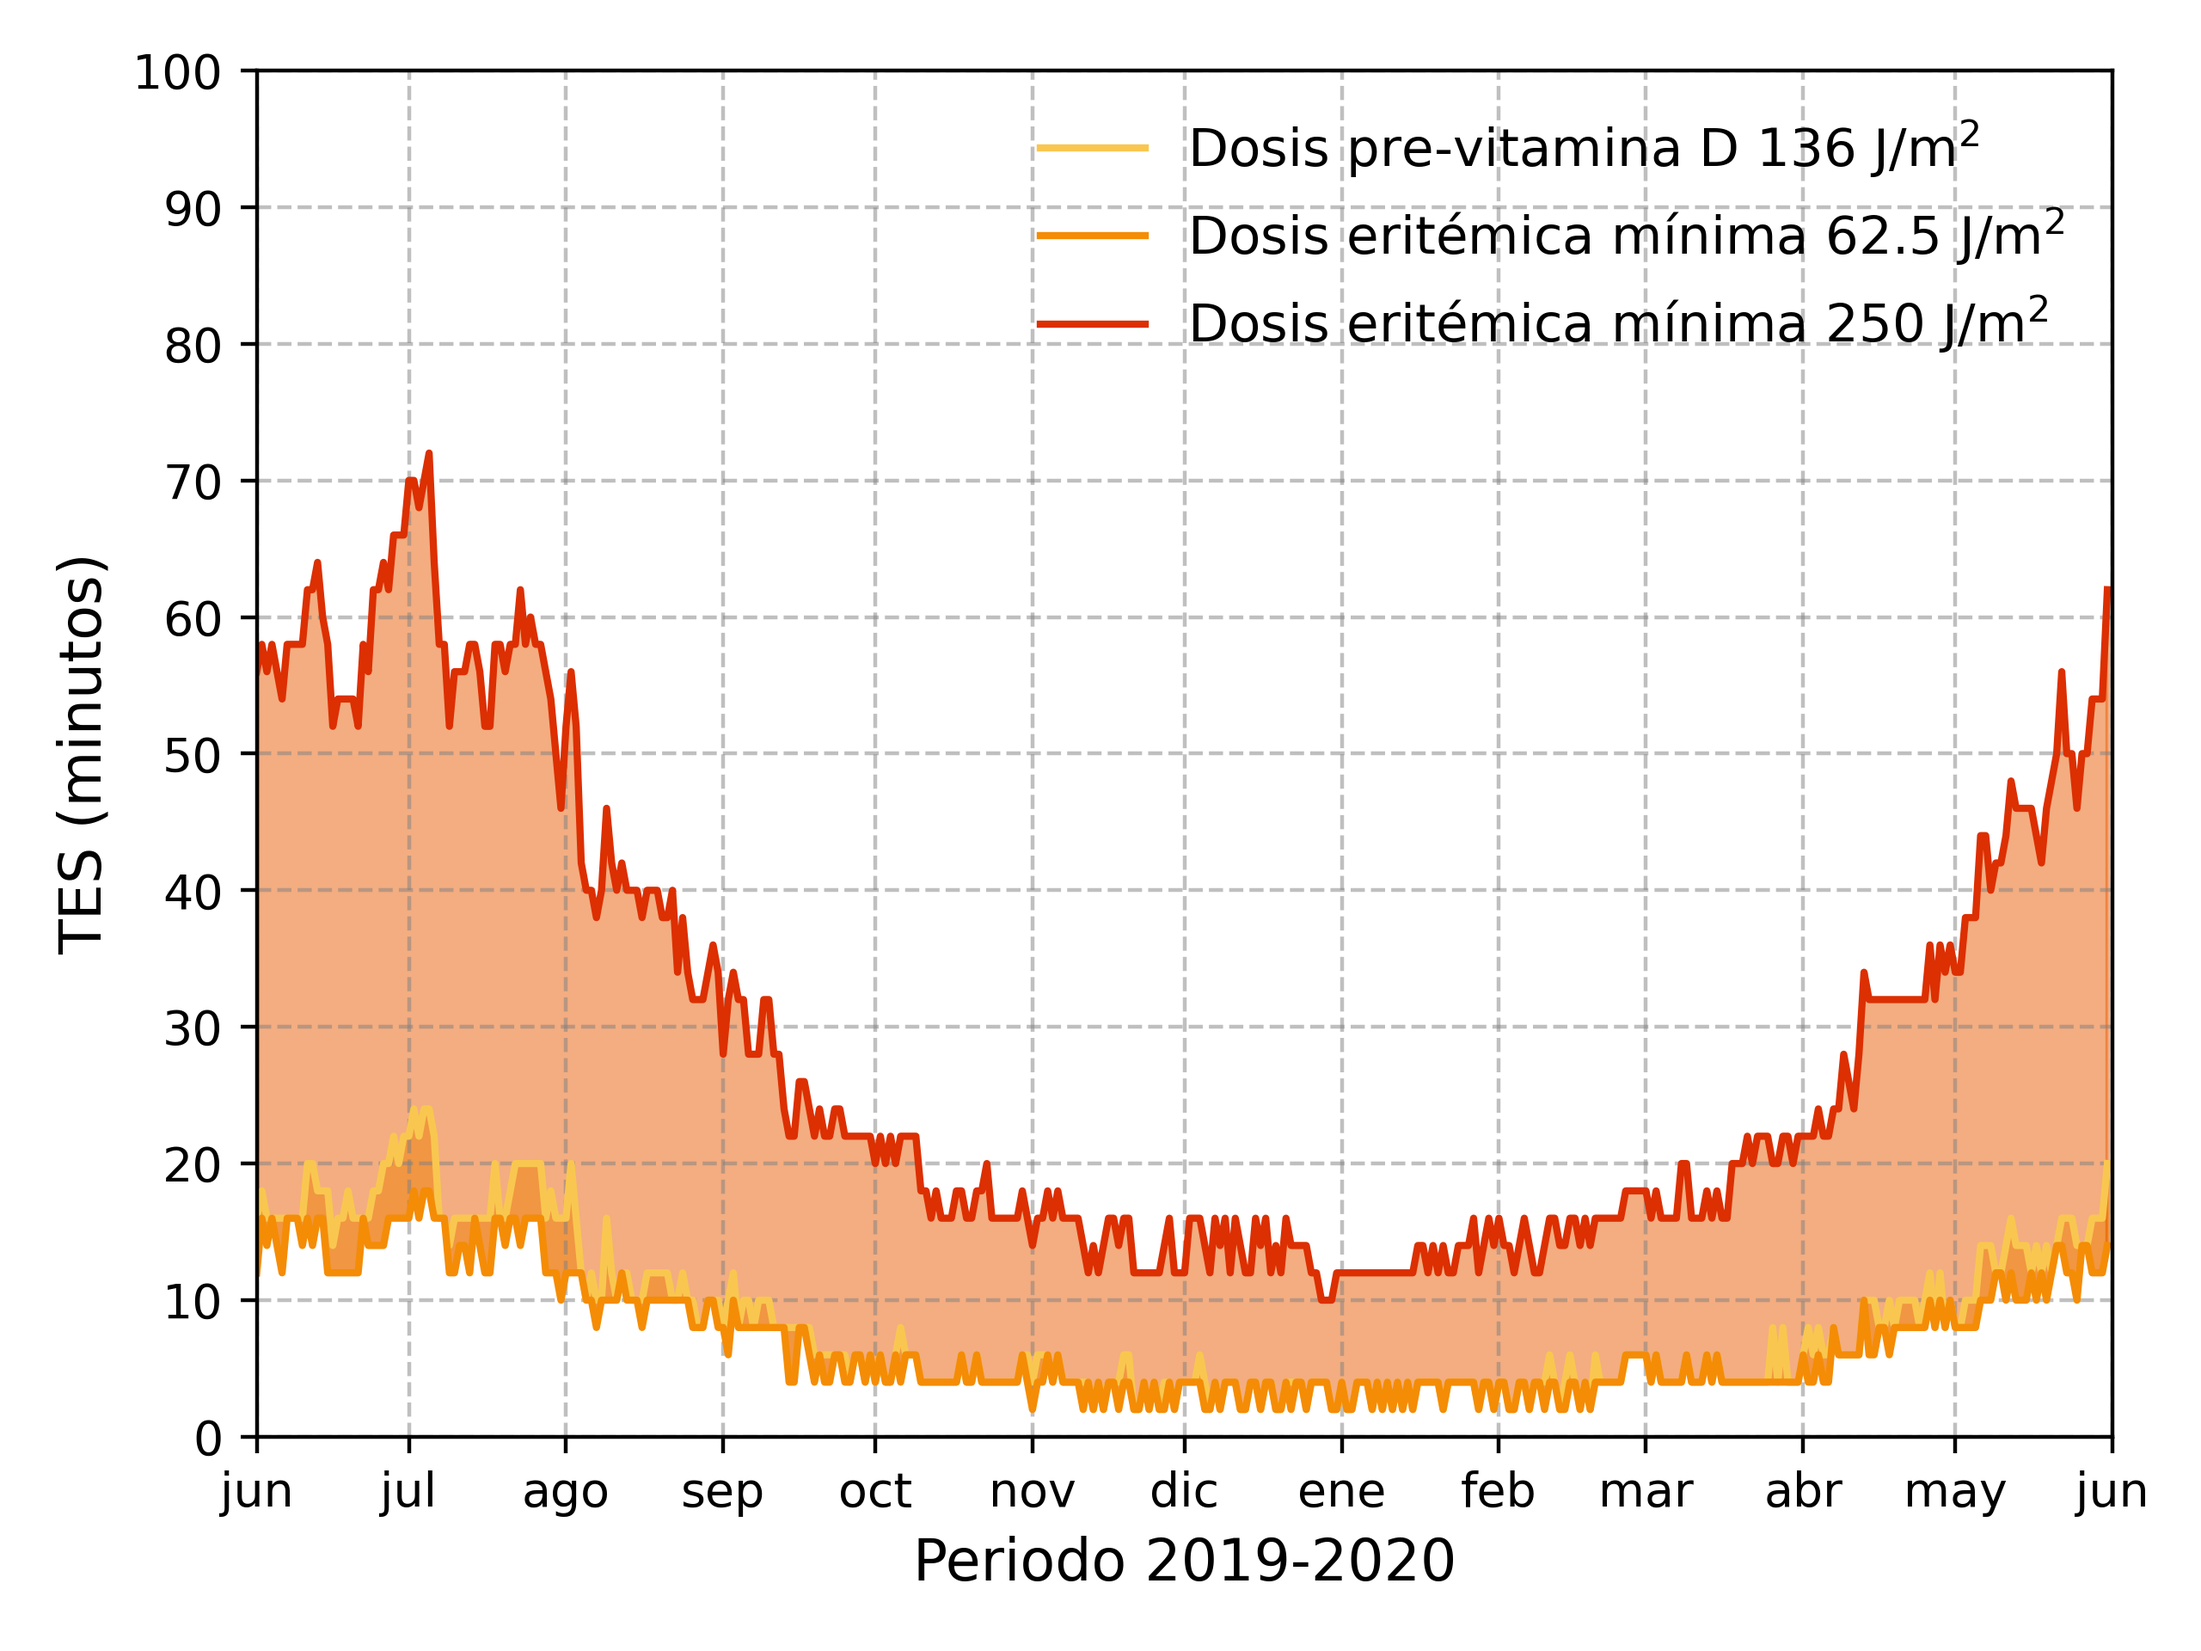
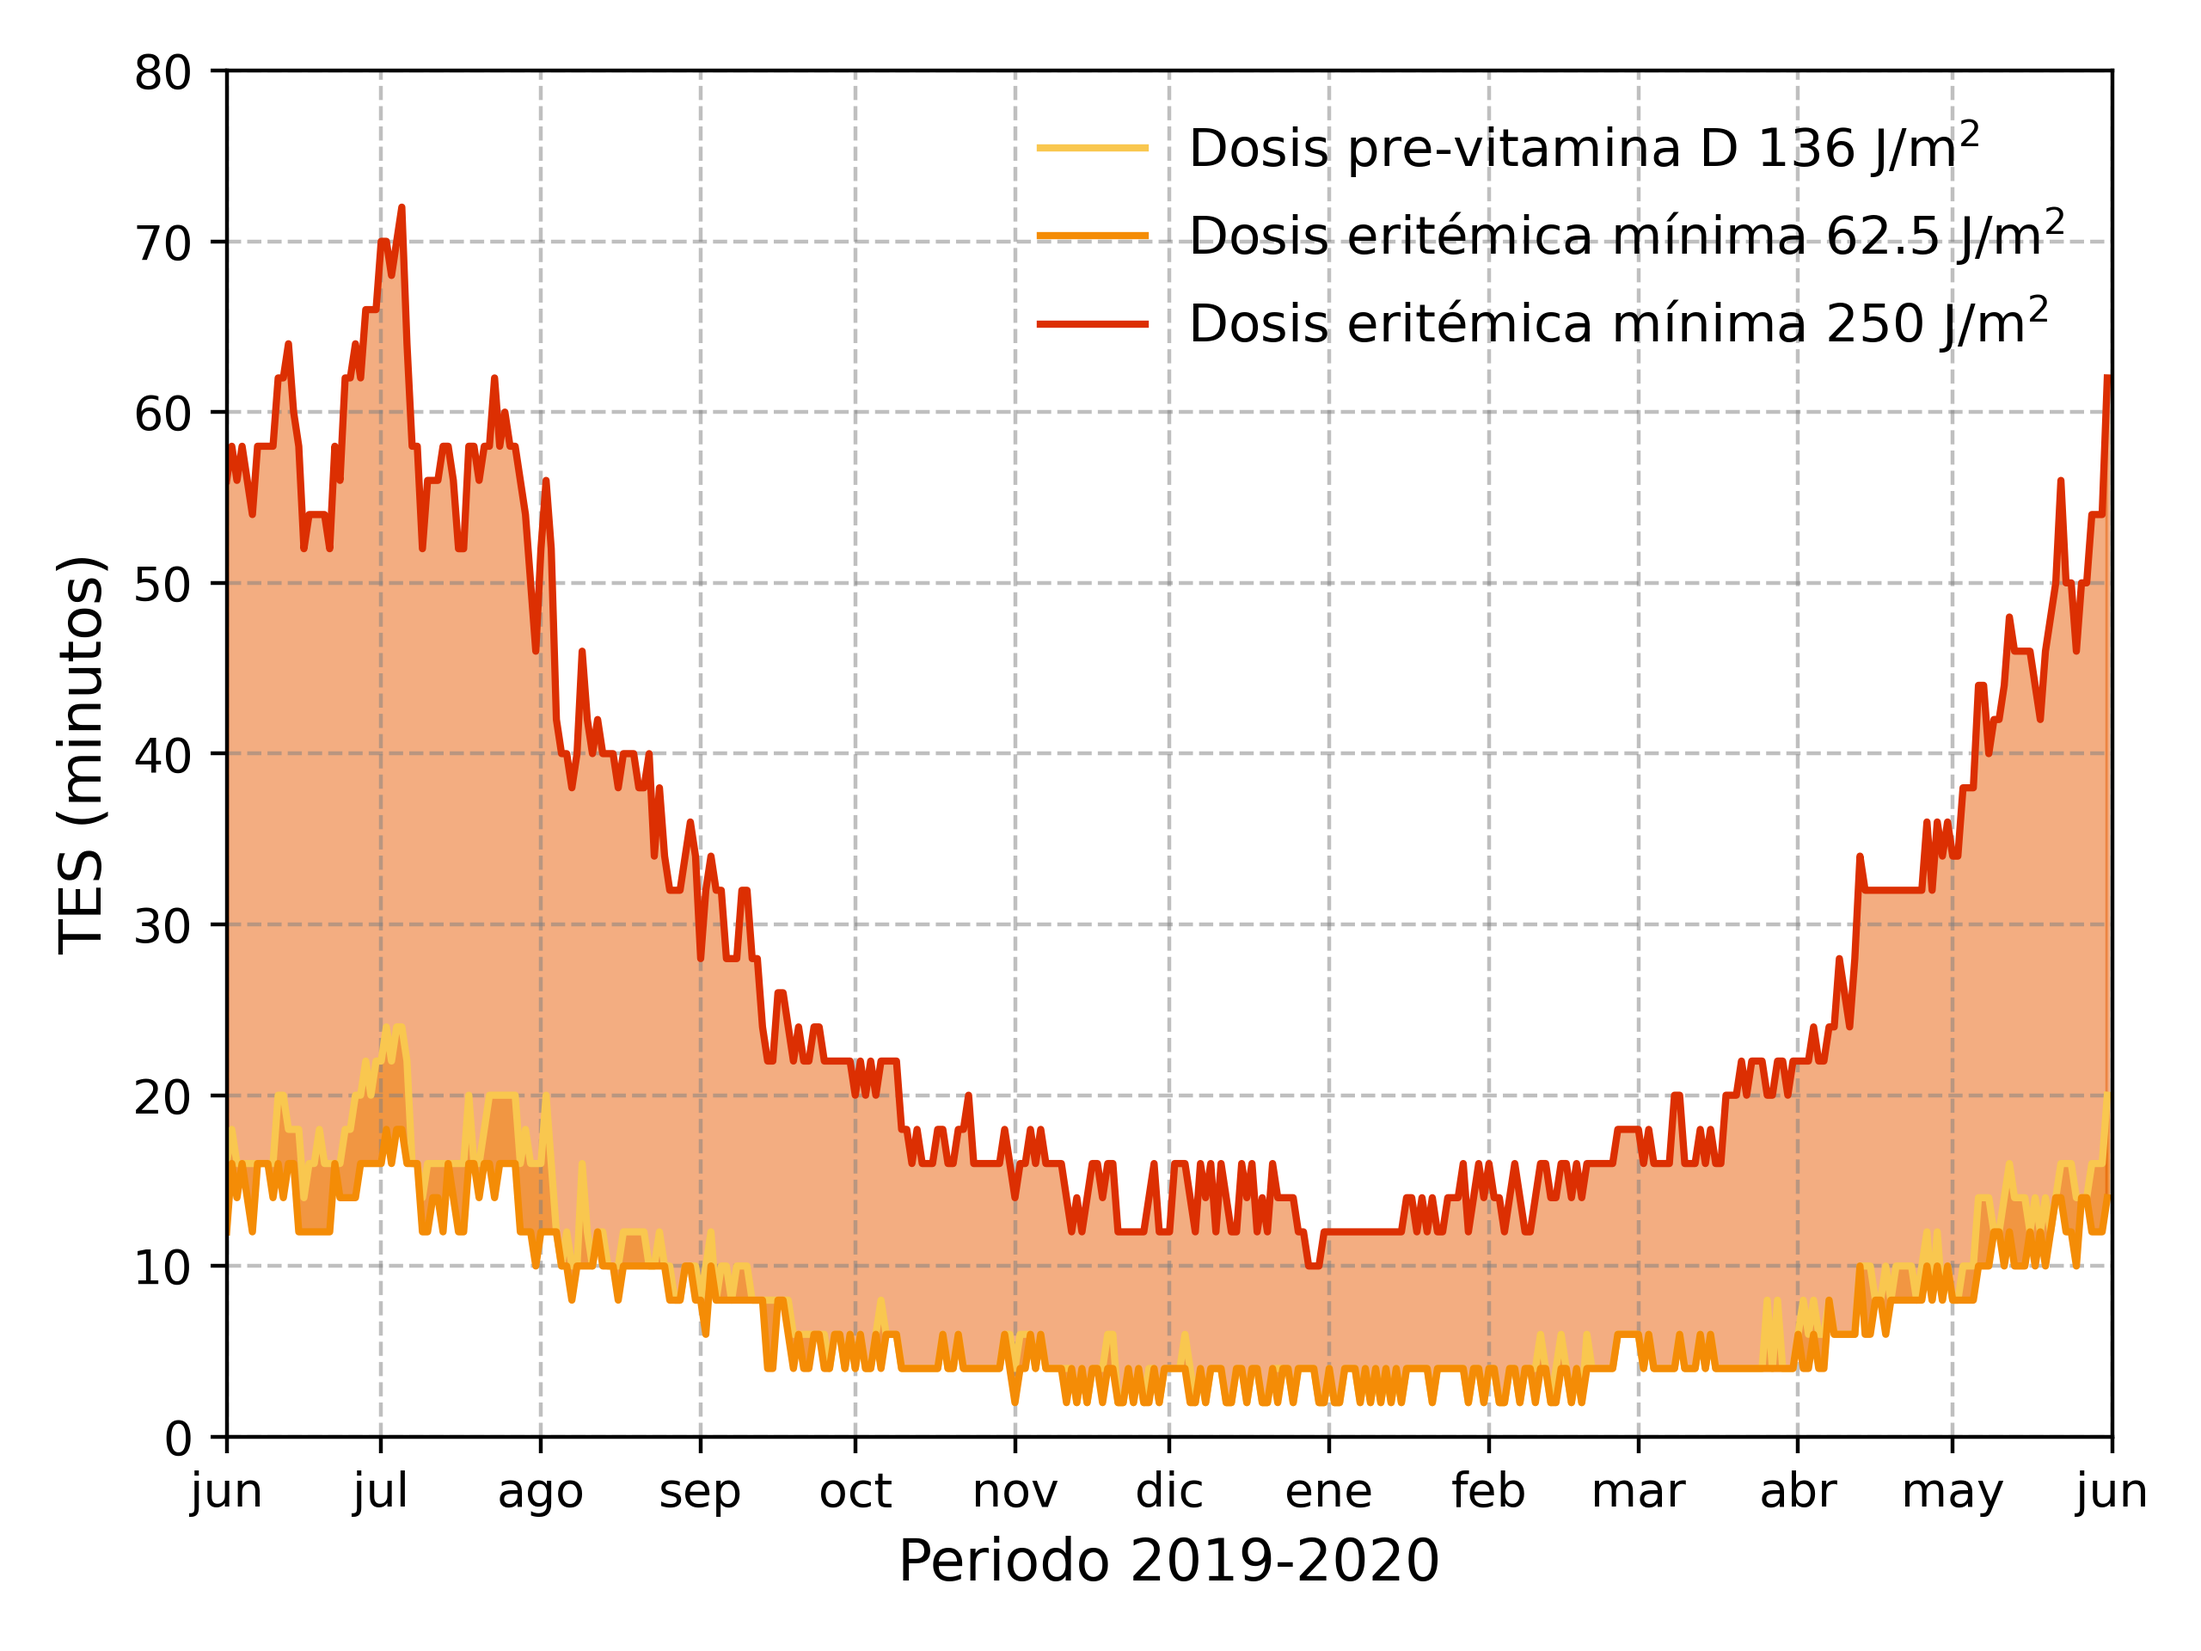
Change ylimit

diff --git a/Scripts/Graphics_doses.py b/Scripts/Graphics_doses.py
@@ -53,8 +53,8 @@ plt.xlim(pd.to_datetime(parameters["date initial"]),
          pd.to_datetime(parameters["date final"]))
 plt.xlabel("Periodo 2019-2020",
            fontsize=12)
-plt.ylim(0, 100)
-plt.yticks([tick for tick in range(0, 110, 10)])
+plt.ylim(0, 80)
+plt.yticks([tick for tick in range(0, 90, 10)])
 plt.ylabel("TES (minutos)",
            fontsize=12)
 # plt.title(title)
